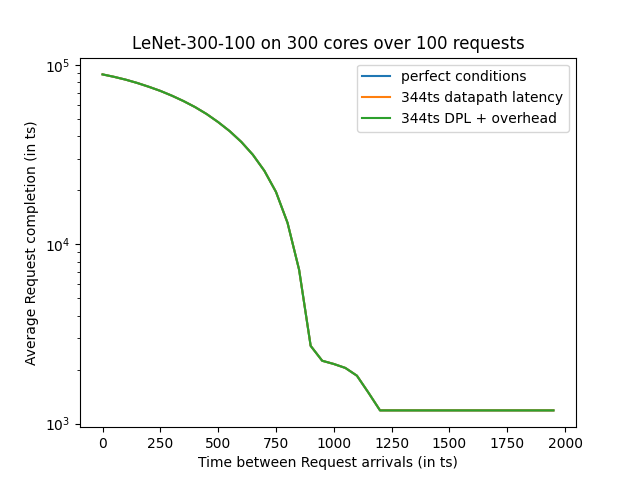
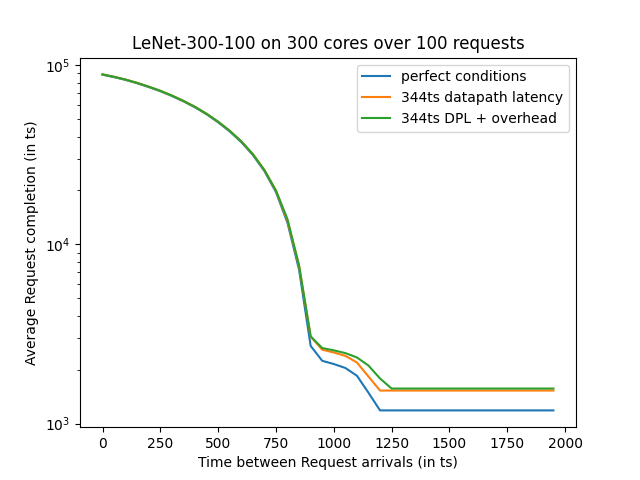
fixed conditions

diff --git a/lenet_sim.py b/lenet_sim.py
@@ -150,22 +150,20 @@ class Core():
                 self.current_req_id = None
 
 
-def schedule_lenet_requests(simulator, num_reqs:int, interarrival_space:int, dpl=0, overhead_factor=0.) -> None:
+def schedule_lenet_requests(simulator, num_reqs:int, interarrival_space:int) -> None:
     '''
     Parameters
     ----------
     simulator: Simulator object we are scheduling requests onto
     num_reqs: number of requests to schedule
     interarrival_space: length of time (in ts) to stagger each request
-    dpl: datapath latency for all LeNet requests (in ts)
-    overhead_factor: latency factor before all layers of LeNet requests
     '''
     for req_id in range(num_reqs):
         simulator.schedule_lenet(LENET_LAYERS, req_id * interarrival_space)
 
 
 if __name__=="__main__":
-    simulator = Simulator()
+    simulator = Simulator(dpl=344,overhead_factor=0.1)
     # schedule_lenet_requests(simulator, 100, 1200)
 
     # simulation of single lenet request

diff --git a/lenet_plot.py b/lenet_plot.py
@@ -21,8 +21,8 @@ def run_lenet_batch(label, dpl=0, overhead_factor=0.):
     y_axis = []
     num_reqs = 100 # number of back-to-back lenet computations
     for interarrival_space in tqdm(range(0, 2000, 50)):
-        simulator = Simulator()
-        schedule_lenet_requests(simulator, num_reqs, interarrival_space, dpl, overhead_factor)
+        simulator = Simulator(dpl, overhead_factor)
+        schedule_lenet_requests(simulator, num_reqs, interarrival_space)
         average_job_time = simulator.simulate()
         # print(f'Average job time for interarrival space of {interarrival_space}: {average_job_time}')
         x_axis.append(interarrival_space)
